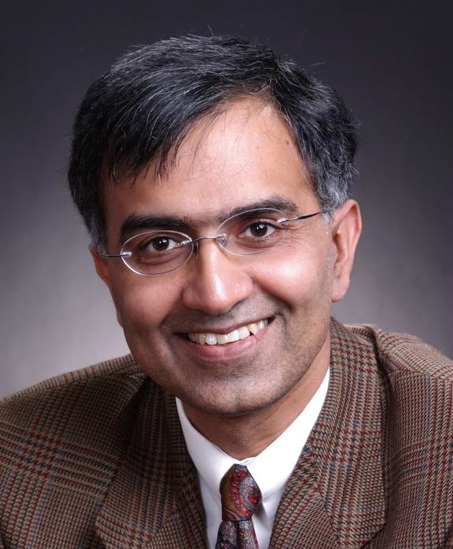
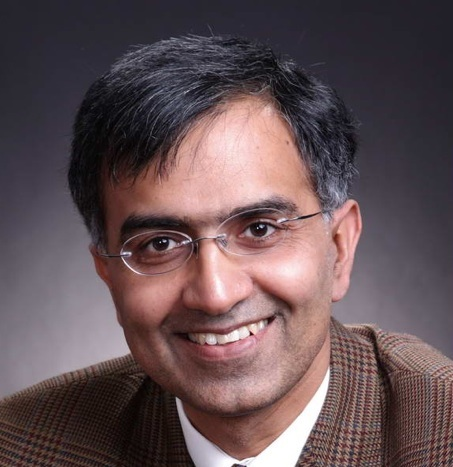
fix bugs on speakers alignment

diff --git a/pages/speakers.html b/pages/speakers.html
@@ -68,7 +68,7 @@
 <div class="container">
 <div class="row display-flex">
   
-    <div class="col-xs-6 col-md-4"> 
+    <div class="col-xs-6 col-md-4" style="height:360px"> 
         <div class="thumbnail">
             <a href="https://www.cs.princeton.edu/~arora/">
             <img 
@@ -80,7 +80,7 @@
                 <h5>Sanjeev Arora</h5>
             </div>
             </a>
-            <p>Professor at Princeton University
+            <p>Professor, Princeton University
             <!-- <br /> -->
             <!-- <emph>Finance Chair</emph> -->
             <!-- </p> -->
@@ -91,7 +91,7 @@
     </div>
     </div>
   
-    <div class="col-xs-6 col-md-4"> 
+    <div class="col-xs-6 col-md-4" style="height:360px"> 
         <div class="thumbnail">
             <a href="https://cims.nyu.edu/~sbowman/">
             <img 
@@ -103,7 +103,7 @@
                 <h5>Sam Bowman</h5>
             </div>
             </a>
-            <p>Assistant Professor at New York University
+            <p>Assistant Professor, New York University
             <!-- <br /> -->
             <!-- <emph>Finance Chair</emph> -->
             <!-- </p> -->
@@ -114,7 +114,7 @@
     </div>
     </div>
     
-    <div class="col-xs-6 col-md-4"> 
+    <div class="col-xs-6 col-md-4" style="height:360px"> 
       <div class="thumbnail">
           <a href="https://research.google/people/105625/">
           <img 
@@ -126,7 +126,7 @@
               <h5>Ian Fischer</h5>
           </div>
           </a>
-          <p>Researcher at Google
+          <p>Researcher, Google
           <!-- <br /> -->
           <!-- <emph>Finance Chair</emph> -->
           <!-- </p> -->
@@ -137,11 +137,11 @@
   </div>
   </div>
   
-    <div class="col-xs-6 col-md-4"> 
+    <div class="col-xs-6 col-md-4" style="height:360px"> 
         <div class="thumbnail">
             <a href="https://people.csail.mit.edu/stefje/">
             <img 
-                src="../images/speakers_200x200/stefanie.jpeg"
+                src="../images/speakers_200x200/stefanie.jpg"
                 alt="Stefanie Jegelka headshot"
                 style="width:270px;height:270px"
                 align="center">
@@ -149,7 +149,7 @@
                 <h5>Stefanie Jegelka</h5>
             </div>
             </a>
-            <p>Associate Professor at MIT
+            <p>Associate Professor, MIT
             <br />
             <!-- <br /> -->
             <!-- <emph>Finance Chair</emph> -->
@@ -163,7 +163,7 @@
   
   
   
-    <div class="col-xs-6 col-md-4"> 
+    <div class="col-xs-6 col-md-4" style="height:360px"> 
         <div class="thumbnail">
             <a href="https://jasondlee88.github.io/index.html">
             <img 
@@ -175,7 +175,7 @@
                 <h5>Jason Lee</h5>
             </div>
             </a>
-            <p>Assistant Professor at Princeton University
+            <p>Assistant Professor, Princeton University
             <!-- <br /> -->
             <!-- <emph>Finance Chair</emph> -->
             <!-- </p> -->
@@ -186,7 +186,7 @@
     </div>
     </div>
   
-    <div class="col-xs-6 col-md-4"> 
+    <div class="col-xs-6 col-md-4" style="height:360px"> 
         <div class="thumbnail">
             <a href="https://ai.stanford.edu/~tengyuma/">
             <img 
@@ -198,7 +198,7 @@
                 <h5>Tengyu Ma</h5>
             </div>
             </a>
-            <p>Assistant Professor at Stanford University
+            <p>Assistant Professor, Stanford University
             <!-- <br /> -->
             <!-- <emph>Finance Chair</emph> -->
             <!-- </p> -->
@@ -210,7 +210,7 @@
     </div>
   
       <!-- 6/12 = 1/2 width on mobile, 4/12 = 1/3 screen on laptop -->
-    <div class="col-xs-6 col-md-4"> 
+    <div class="col-xs-6 col-md-4" style="height:360px"> 
         <div class="thumbnail">
             <a href="https://www.cs.cmu.edu/~morency/">
             <img 
@@ -222,7 +222,7 @@
                 <h5>Louis-Philippe Morency</h5>
             </div>
             </a>
-            <p>Associate Professor at CMU
+            <p>Associate Professor, CMU
             <br />
             <!-- <br /> -->
             <!-- <emph>Finance Chair</emph> -->
@@ -234,7 +234,7 @@
     </div>
     </div>
   
-    <div class="col-xs-6 col-md-4"> 
+    <div class="col-xs-6 col-md-4" style="height:360px"> 
         <div class="thumbnail">
             <a href="https://www.vanderschaar-lab.com/prof-mihaela-van-der-schaar/">
             <img 
@@ -246,7 +246,7 @@
                 <h5>Mihaela van der Schaar</h5>
             </div>
             </a>
-            <p>Professor at University of Cambridge
+            <p>Professor, University of Cambridge
             <br />
             <!-- <br /> -->
             <!-- <emph>Finance Chair</emph> -->
@@ -258,7 +258,7 @@
     </div>
     </div>
   
-    <div class="col-xs-6 col-md-4"> 
+    <div class="col-xs-6 col-md-4" style="height:360px"> 
         <div class="thumbnail">
             <a href="https://keg.cs.tsinghua.edu.cn/jietang/">
             <img 
@@ -270,7 +270,7 @@
                 <h5>Jie Tang</h5>
             </div>
             </a>
-            <p>Professor at Tsinghua University
+            <p>Professor, Tsinghua University
             <br />
             <!-- <br /> -->
             <!-- <emph>Finance Chair</emph> -->
